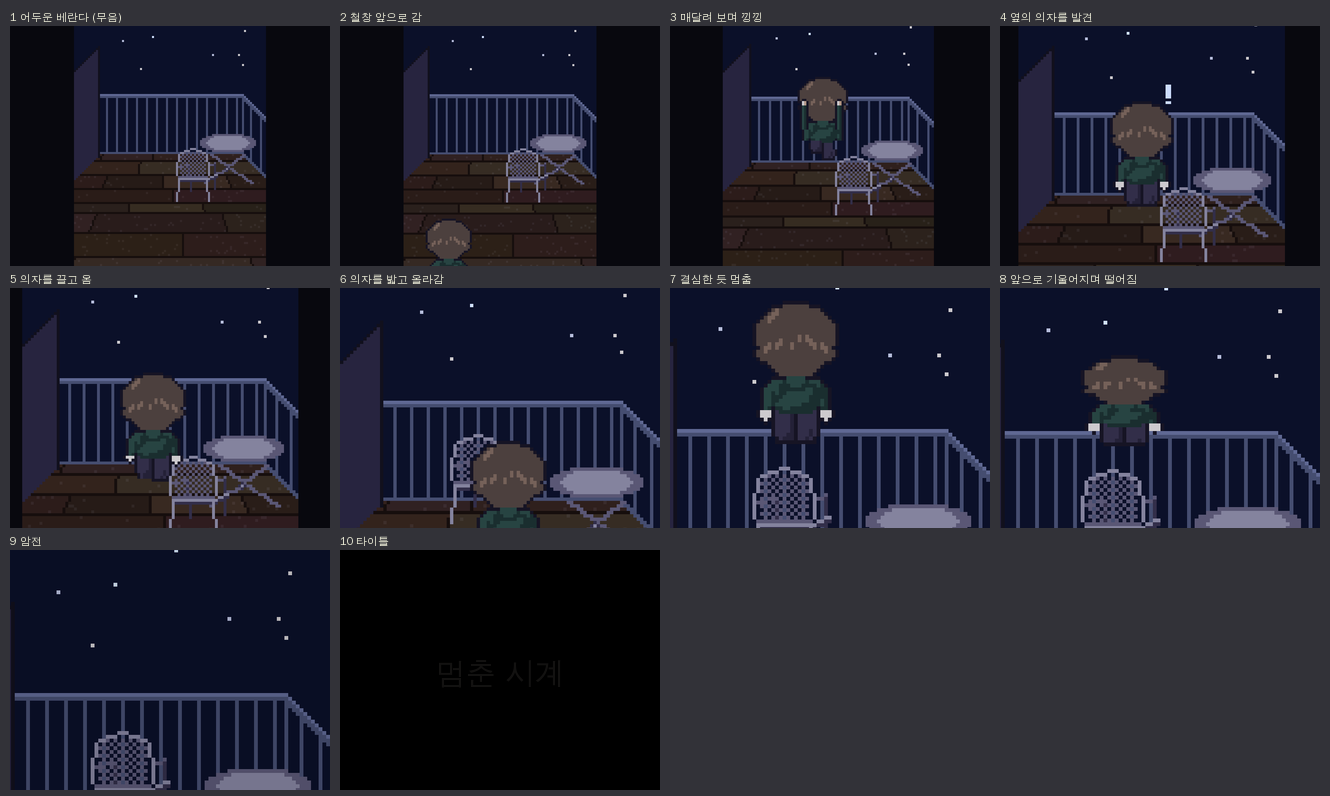
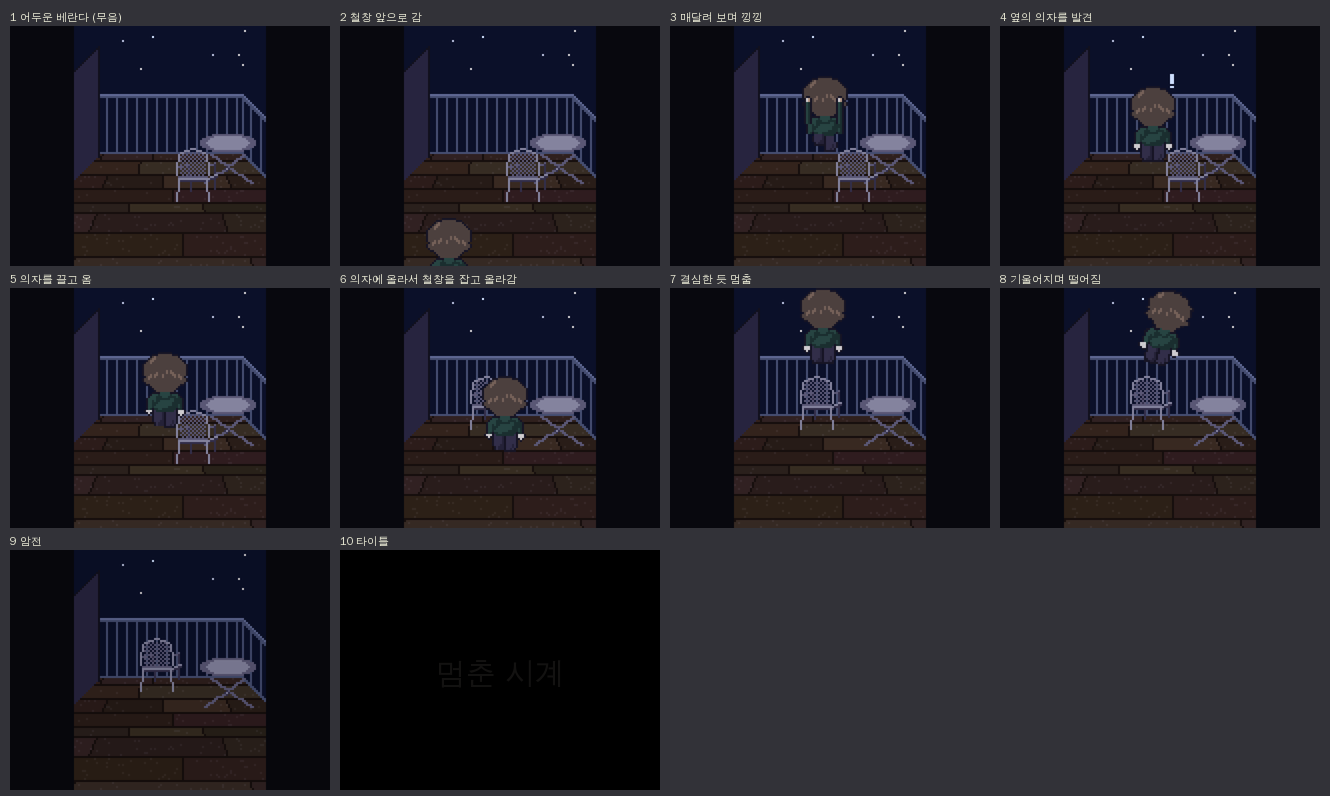
Cutscene: grab-and-climb, no zoom, sideways tilt fall
Claude-Session: https://claude.ai/code/session_01FPZSaKiVNU2zED737yZX4w

diff --git a/tools/gen_cutscene_prologue.py b/tools/gen_cutscene_prologue.py
@@ -2,8 +2,8 @@
 """프롤로그 추락 컷신(1인칭: 베란다 정면, 올려다보는 구도) 초안.  사용: python3 tools/gen_cutscene_prologue.py
 출력: maps/out/prologue_cutscene.gif (10fps, 320x240), maps/out/prologue_cutscene_sheet.png (주요 컷)
 흐름: 무음 → 철창 앞으로 걸어감 → 맨몸으로 매달려 보며 낑낑 → 옆의 의자를 발견 → 의자를 끌고 와 밟고 올라섬 →
-철창 위에서 결심한 듯 잠깐 멈춤 → 앞으로 기울어지며 떨어짐(슬리퍼는 떨어지고 손전등은 떠오름) → 암전 → 타이틀. 착지는 그리지 않는다.
-카메라는 컷신이 진행될수록 천천히 확대되어, 떨어질 때는 왼쪽 벽이 화면 밖으로 나간다."""
+철창 위에서 결심한 듯 잠깐 멈춤 → 옆으로 기울어지며 떨어짐(슬리퍼는 떨어지고 손전등은 떠오름) → 암전 → 타이틀. 착지는 그리지 않는다.
+카메라는 고정(확대 없음)."""
 import math, os, sys
 from PIL import Image, ImageDraw, ImageFont
 sys.path.insert(0, os.path.dirname(os.path.abspath(__file__)))
@@ -25,13 +25,13 @@ def render(st, cam):
     def actors(im, stage):
         ch = st.get('child')
         if ch and ch[3] == stage:
-            cx, fy, spr, _, lean = ch
-            if lean:                                        # 앞(철창 바깥)으로 기울기: 뒤에서 보면 발을 축으로 위쪽이 눌려 짧아진다. lean>1 이면 뒤집혀 거꾸로
-                k = abs(1 - lean) if lean <= 1 else min(1, lean - 1)
-                h = max(2, round(spr.height * max(.18, k)))
-                spr = spr.resize((spr.width, h), Image.NEAREST)
-                if lean > 1: spr = spr.transpose(Image.FLIP_TOP_BOTTOM)
-            ox, oy = cx - spr.width / 2, fy - spr.height
+            cx, fy, spr, _, ang = ch
+            if ang:                                         # 발을 축으로 옆으로 기울인다(각도, 도)
+                big = Image.new('RGBA', (spr.width * 3, spr.height * 2), (0, 0, 0, 0)); big.alpha_composite(spr, (spr.width, 0))
+                spr = big.rotate(ang, resample=Image.NEAREST, center=(spr.width * 1.5, spr.height))
+                ox, oy = cx - spr.width / 2, fy - spr.height / 2
+            else:
+                ox, oy = cx - spr.width / 2, fy - spr.height
             tmp = Image.new('RGBA', im.size, (0, 0, 0, 0)); tmp.alpha_composite(spr, (int(ox), int(oy)))
             if stage == 'behind':                           # 철창 바깥: 바닥선 아래로는 보이지 않는다
                 tmp.paste((0, 0, 0, 0), (0, BASE_Y, im.width, im.height))
@@ -87,44 +87,30 @@ for k in range(2):
         t = (i + 1) / 6; cp = (lerp(cur[0], nxt[0], t), lerp(cur[1], nxt[1], t)); add(dict(chair=cp, child=kid(cp[0] + 22, cp[1] + 15, WALK[(i + k) % 4])))
     cur = nxt; add(dict(chair=cur, child=kid(cur[0] + 22, cur[1] + 15, IDLE)), 6)
 CH = cur; cx = CH[0] + 14; seat_y = CH[1] - 12
-# 6. 의자를 밟고 올라감: 한 발씩 끊어서(발 올림 → 몸 올림 → 잠깐 멈춤)
+# 6. 의자에 올라서서 철창 윗줄을 잡고 올라감
 x0, y0 = CH[0] + 22, CH[1] + 15
-for i in range(5):                                          # 의자 앞으로 다가감
-    t = (i + 1) / 5; add(dict(chair=CH, child=kid(lerp(x0, cx, t), lerp(y0, CH[1] + 4, t), WALK[i % 4])), 1, '6 의자를 밟고 올라감' if i == 0 else '')
-steps = [(CH[1] + 4, seat_y + 6), (seat_y + 6, seat_y)]     # 한 발 → 다른 발
-for k, (ya, yb) in enumerate(steps):
-    add(dict(chair=CH, child=kid(cx, ya, CLIMB[k % 2])), 4)
-    add(dict(chair=CH, child=kid(cx, yb, CLIMB[k % 2])), 3)
-    add(dict(chair=CH, child=kid(cx, yb, IDLE)), 4)
-# 철창: 손으로 윗줄을 잡고(매달리기) → 몸을 끌어올림 → 한 무릎 올림 → 일어섬
-add(dict(chair=CH, child=kid(cx, seat_y, REACH)), 5)
-for k, yb in enumerate((seat_y - 6, seat_y - 12)):
-    add(dict(chair=CH, child=kid(cx, yb, HANG[k % 2])), 4)
-    add(dict(chair=CH, child=kid(cx + (1 if k else -1), yb, HANG[(k + 1) % 2])), 3)
-add(dict(chair=CH, child=kid(cx, RAIL_TOP + 8, CLIMB[0])), 5)
-add(dict(chair=CH, child=kid(cx, RAIL_TOP + 4, CLIMB[1])), 4)
+for i in range(6):
+    t = (i + 1) / 6; add(dict(chair=CH, child=kid(lerp(x0, cx, t), lerp(y0, seat_y, t), WALK[i % 4])), 1, '6 의자에 올라서 철창을 잡고 올라감' if i == 0 else '')
+add(dict(chair=CH, child=kid(cx, seat_y, REACH)), 4)              # 윗줄을 잡음
+for i in range(14):                                          # 잡은 채로 몸을 끌어올림
+    t = (i + 1) / 14; add(dict(chair=CH, child=kid(cx, lerp(seat_y, RAIL_TOP + 4, ease(t)), HANG[(i // 3) % 2])))
 # 7. 철창 위에서 결심한 듯 잠깐 멈춤
 add(dict(chair=CH, child=kid(cx, RAIL_TOP + 4, IDLE)), 16, '7 결심한 듯 멈춤')
-# 8. 앞으로(철창 바깥쪽으로) 천천히 기울어지다가 넘어가 떨어짐: 슬리퍼는 떨어지고 손전등은 떠오른다
-for i in range(10):
-    add(dict(chair=CH, child=kid(cx, RAIL_TOP + 4, IDLE, 'front', ease((i + 1) / 10) * .75)), 1, '8 앞으로 기울어지며 떨어짐' if i == 0 else '')
-yy, v = RAIL_TOP + 4, .5
+# 8. 옆으로 기울어지며 떨어짐: 슬리퍼는 떨어지고 손전등은 떠오른다
+for i in range(8):
+    add(dict(chair=CH, child=kid(cx + i * .4, RAIL_TOP + 4, IDLE, 'front', -(i + 1) * 3)), 1, '8 기울어지며 떨어짐' if i == 0 else '')
+yy, v, ang = RAIL_TOP + 4, .6, -24
 for i in range(14):
-    yy += v; v += .8
-    add(dict(chair=CH, child=kid(cx, yy, IDLE, 'behind', .8 + i * .08), slip=(cx - 12, RAIL_TOP + 2 + (i * 2.0) ** 1.25 * .8), light=(cx + 10, RAIL_TOP - 6 - i * .8)))
+    yy += v; v += .8; ang -= 4
+    add(dict(chair=CH, child=kid(cx + 4 + i * .3, yy, IDLE, 'behind', ang), slip=(cx - 12, RAIL_TOP + 2 + (i * 2.0) ** 1.25 * .8), light=(cx + 10, RAIL_TOP - 6 - i * .8)))
 for i in range(12): add(dict(chair=CH, light=(cx + 10, RAIL_TOP - 17 - i * .8)))
 # 9. 암전 → 타이틀(착지는 그리지 않는다)
 for i in range(10): add(dict(chair=CH, fade=(i + 1) / 10), 1, '9 암전' if i == 0 else '')
 for i in range(12): add(dict(chair=CH, fade=1.0, title=(i + 1) / 12), 1, '10 타이틀' if i == 0 else '')
 add(dict(chair=CH, fade=1.0, title=1.0), 14)
 
-# 카메라: 처음(전체, 2배) → 떨어지는 순간(약 3.8배, 철창·의자 중심, 왼쪽 벽이 화면 밖) 으로 천천히 확대
-fall_i = labels.index('8 앞으로 기울어지며 떨어짐')
-for i in range(len(frames)):
-    t = ease(min(1, i / fall_i))
-    s = lerp(2.0, 3.8, t); vw = 320 / s
-    cx = lerp(48, 55, t); cx = min(cx, 96 - vw / 2) if vw < 96 else cx       # 오른쪽 끝 밖(빈 공간)이 보이지 않게
-    cams.append((cx, lerp(76, 44, t), s))
+# 카메라: 확대 없이 고정(전체, 2배)
+cams = [(48, 76, 2.0)] * len(frames)
 imgs = [render(st, cam) for st, cam in zip(frames, cams)]
 os.makedirs(OUT, exist_ok=True)
 imgs[0].save(os.path.join(OUT, 'prologue_cutscene.gif'), save_all=True, append_images=imgs[1:], duration=100, loop=0)
